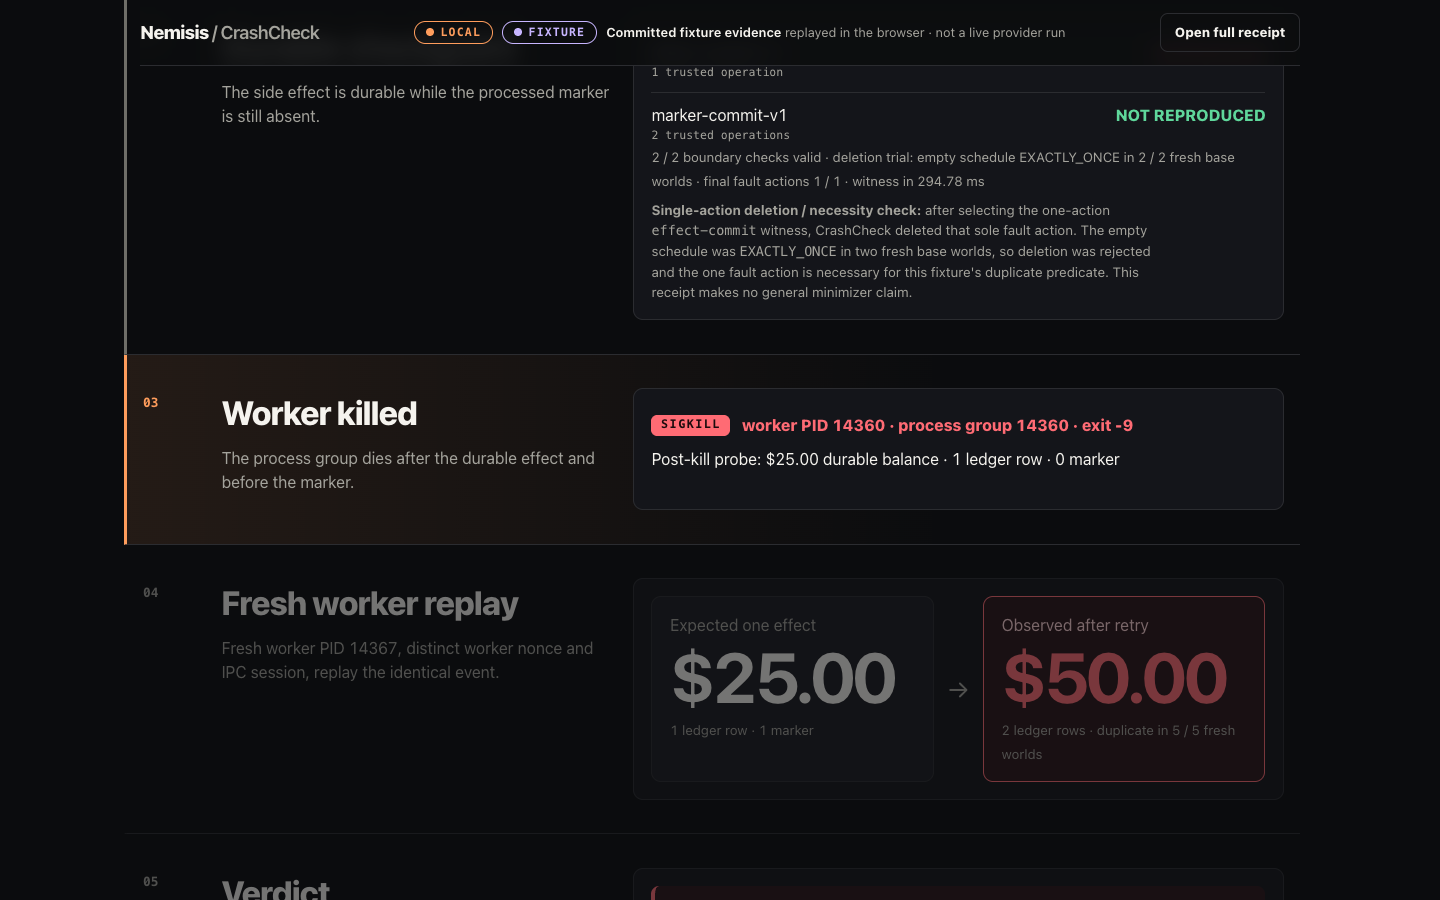
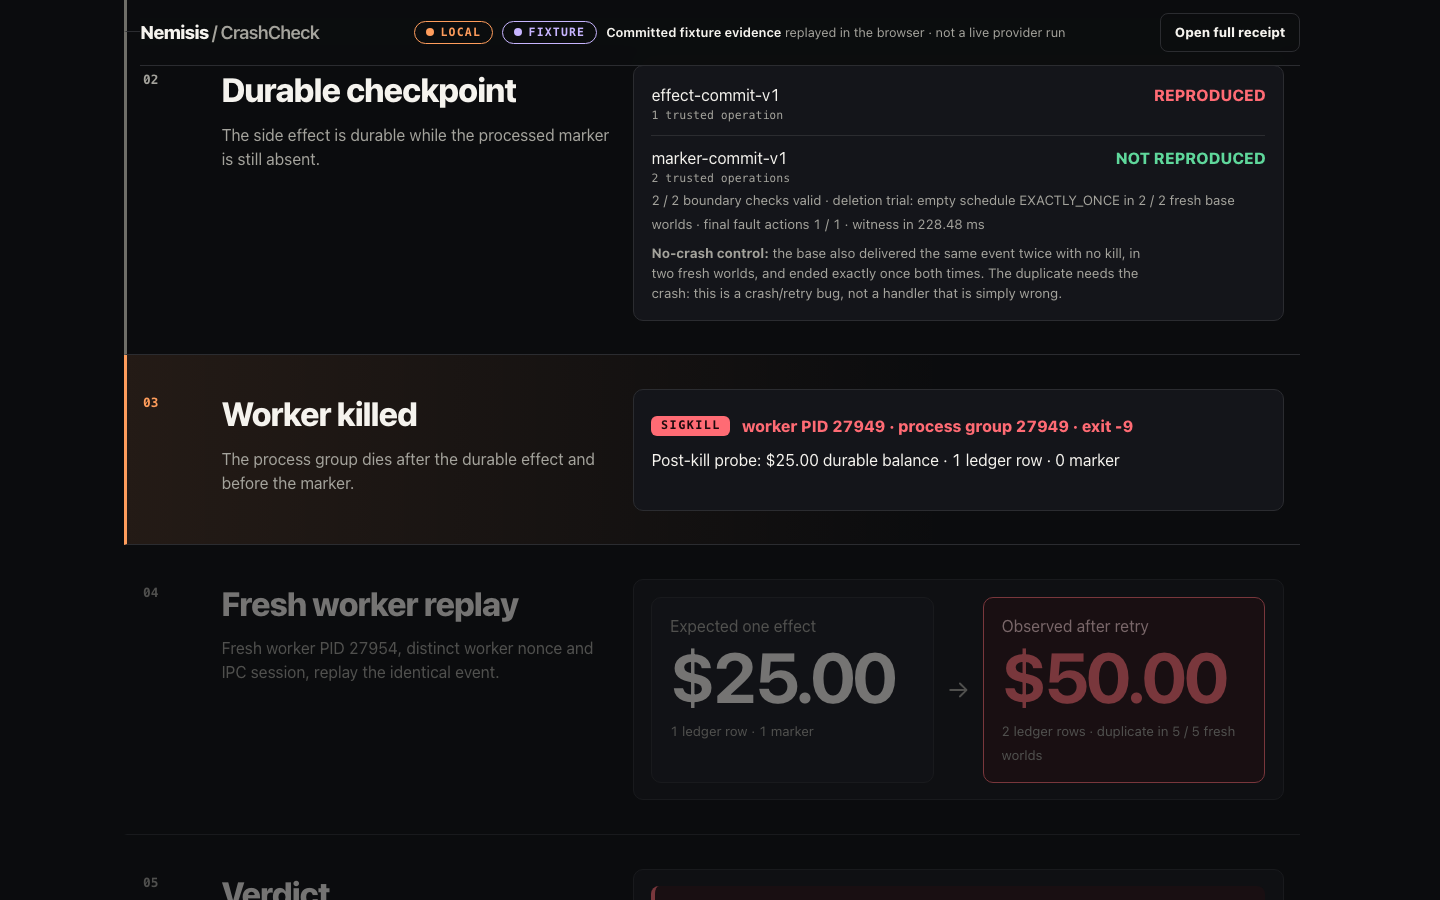
docs(assets): re-record every capture at the hardened engine
vhs re-recorded the 30-second GIF and the terminal stills (check with the
control and sweep lines, the atomic replay, doctor --mode live, the green
suite at 348), and headless Chrome re-captured the viewer states and both
generated reports against the regenerated hero. Every image now shows the
same engine digest the ledgers quote.

Claude-Session: https://claude.ai/code/session_01KVHjEkKhTgW2NifgNq6fe5

diff --git a/docs/assets/screenshots/README.md b/docs/assets/screenshots/README.md
@@ -4,9 +4,9 @@ Three kinds of capture live here, and they are labelled differently on purpose:
 
 - The GIF, the terminal stills, and the two report renders are real local runs of the packaged
   `sqlite-credit-v1` fixture on this tree (`LOCAL` / `FIXTURE`).
-- The `viewer-01` to `viewer-03` captures are headless-Chrome renders of the committed hero evidence,
-  which stays bound to its own earlier commit and engine digest (`LOCAL` / `FIXTURE`, from
-  `docs/assets/crashcheck-hero/`).
+- The `viewer-01` to `viewer-03` captures are headless-Chrome renders of the committed hero evidence
+  (`LOCAL` / `FIXTURE`, from `docs/assets/crashcheck-hero/`), regenerated on 2026-09-05 at the same
+  engine as every other capture here.
 - `viewer-05-fail-closed.png` is the one induced state: the capture script withholds `manifest.json`
   (a 404) so the page's fail-closed path can be seen. It shows the absence of a claim, not evidence.
 
@@ -18,7 +18,7 @@ regenerates it.
 | --- | --- | --- |
 | `crashcheck-demo.gif` | 30 s: buggy → `BUG_REPRODUCED`, agent's patch → `PATCH_FAILED_STILL_REPRODUCES`, atomic → `FIX_PROVEN_FOR_THIS_CAPSULE`, one capsule | `vhs crashcheck-demo.tape` |
 | `terminal-doctor-live-blocked.png` | `doctor --mode live` naming exactly what a live run still needs | `vhs crashcheck-stills.tape` |
-| `terminal-check-misleading-green.png` | `check` on the agent's patch: verdict, necessity, `$25 → SIGKILL → $50` timeline, exit `1` | `vhs crashcheck-stills.tape` |
+| `terminal-check-misleading-green.png` | `check` on the agent's patch: verdict, no-crash control, corrected-tree sweep, `$25 → SIGKILL → $50` timeline, exit `1` | `vhs crashcheck-stills.tape` |
 | `terminal-replay-atomic-proven.png` | the same capsule replayed against the atomic fix, exit `0` | `vhs crashcheck-stills.tape` |
 | `terminal-pytest-green.png` | the full suite, green | `vhs crashcheck-pytest.tape` (run last) |
 | `viewer-01-initial.png` | evidence viewer on load: verdict first, FAIL / PASS controls, truth-label bar | `capture-viewer.js` |
